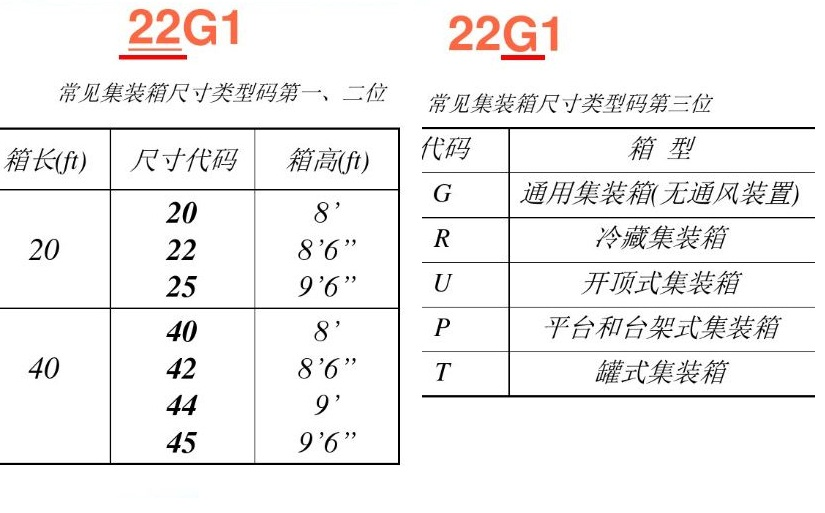
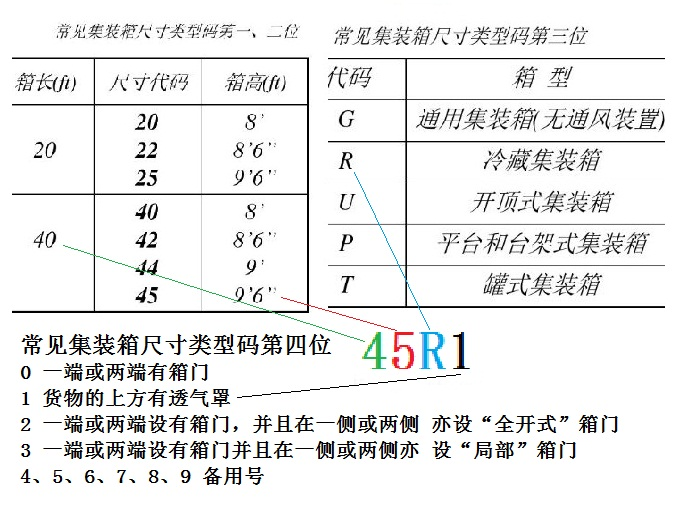
Add files via upload

Changed region(s): [[0.0, 0.0, 0.9839, 0.9669], [0.0307, 0.8109, 0.0615, 0.8421]]

diff --git a/post/knowledge/logistics/国际物流/container/集装箱的标记.html b/post/knowledge/logistics/国际物流/container/集装箱的标记.html
@@ -313,14 +313,14 @@ T (Tank) :      罐式集装箱
 U (Up):         表示敞顶集装箱 
 A (Air):        表示空陆水联运集装箱
 </pre>
-<p>第三个字符表示箱型规格</p>
+<p>第四个字符表示箱型规格</p>
   
 <pre>
-G0 一端或两端有箱门 
-G1 货物的上方有透气罩 
-G2 一端或两端设有箱门，并且在一侧或两侧 亦设“全开式”箱门 
-G3 一端或两端设有箱门并且在一侧或两侧亦 设“局部”箱门 
-G4 G5 G6 G7 G8 G9 备用号
+0 一端或两端有箱门 
+1 货物的上方有透气罩 
+2 一端或两端设有箱门，并且在一侧或两侧 亦设“全开式”箱门 
+3 一端或两端设有箱门并且在一侧或两侧亦 设“局部”箱门 
+4、5、6、7、8、9 备用号
 </pre>
 <h4>2 作业标记 </h4>
 <p><strong>2.1 载重标记</strong></p>
